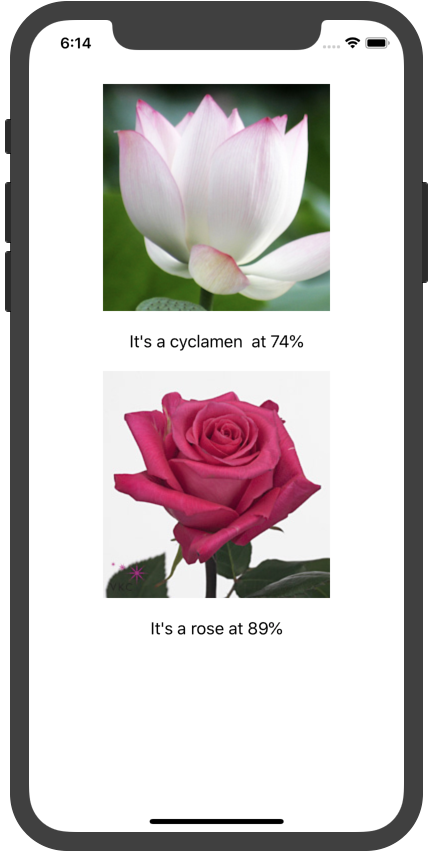
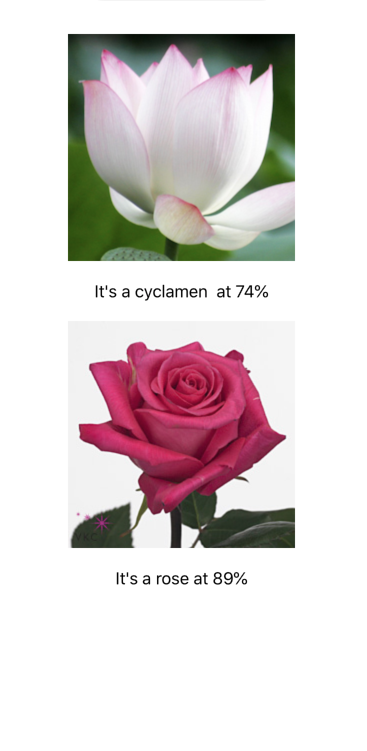
CCAutoTag : update

diff --git a/README.md b/README.md
@@ -6,7 +6,9 @@ https://github.com/ccworld1000/CCFlowerDemo
 
 
 
-Right and Wrong
+## Discrimination of Flowers Using Existing AI Model.
+
+## The main first picture was actually a lotus flower, but it was identified as a cyclamen.
 
 
 
